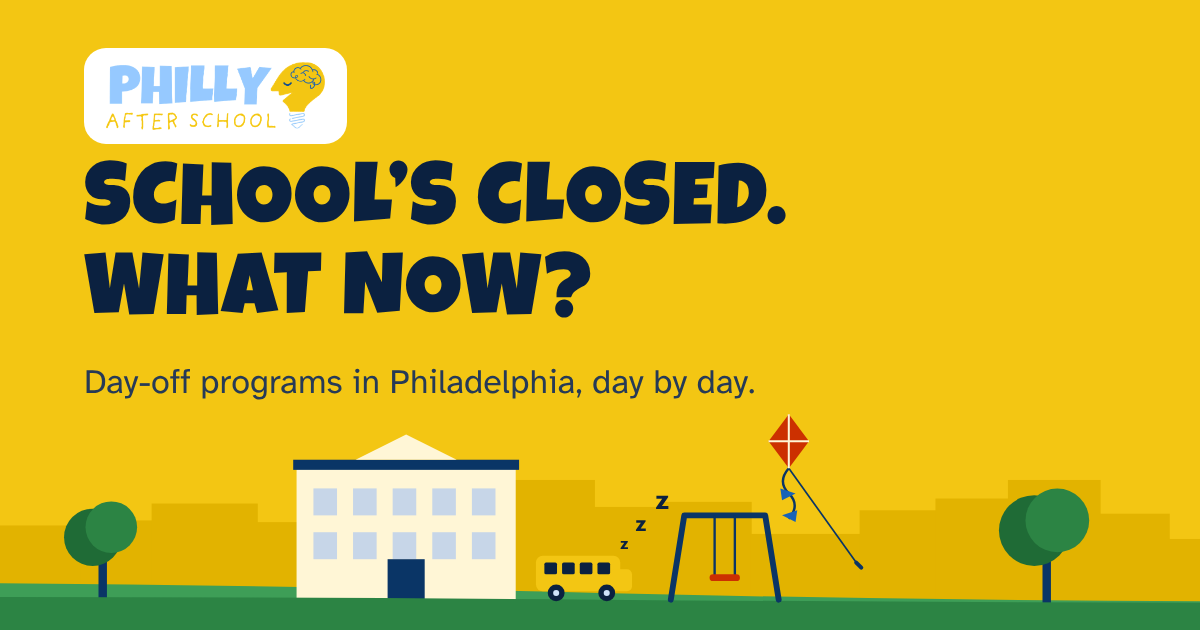
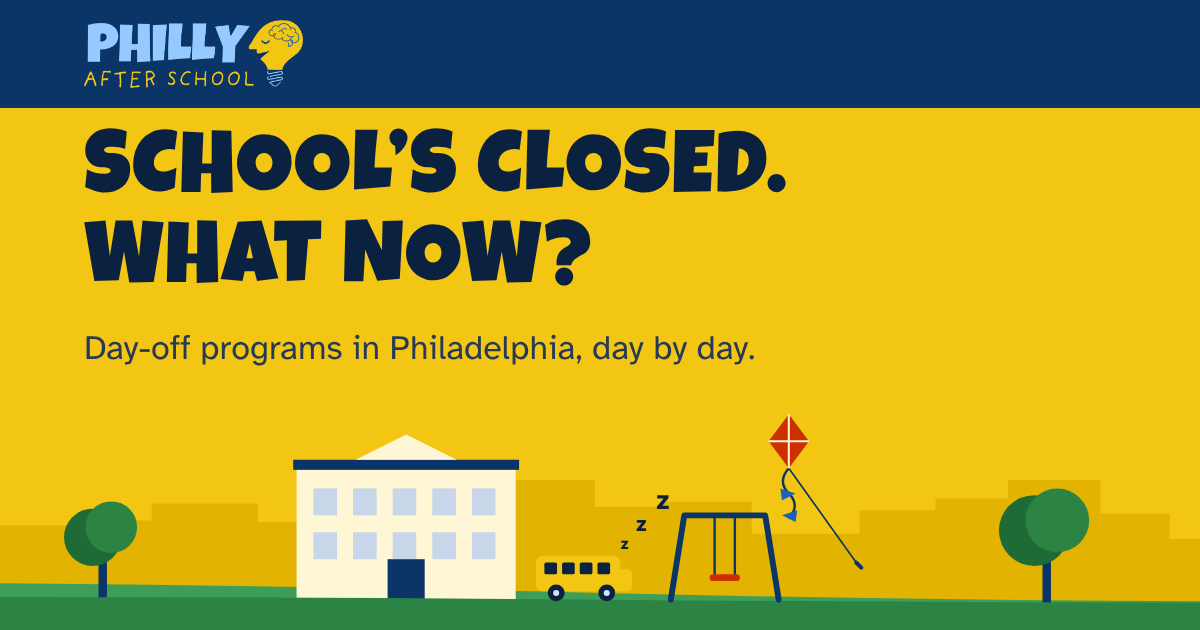
Launch polish: the type key, the calendar page as a sample, menu names, credits, share bands
Type: titles (h3, cards, tiles, steps) in Figtree ExtraBold, sentence
case, with Luckiest Guy kept for the h1/h2 signposts; Archivo is gone,
the week card and the drawings draw in Figtree too.

The signed-out calendar page: "Sample calendar" with no kicker, the
example full width with no side copy and no "Example" pill, a sample
line under it, "Line up your sign-ups", a truthful last card, and a
hero with "Get started" and "Log in".

Menus and footer lists in title case ("After School" as the noun,
"Days Off", "My Calendar"); the two credit lines reworded. The share
pictures open with the site's header bar. The footer wordmark is cut
by connected parts, so the Y is whole. The next-day-off line and bar
skip a day already planned on the device and go quiet past 60 days.

Claude-Session: https://claude.ai/code/session_014J9upzwzYj5u4U8HYNcMSU

Changed region(s): [[0.0, 0.0, 1.0, 0.6333]]

diff --git a/src/site.js b/src/site.js
@@ -1094,11 +1094,14 @@
     if (firstOff && firstOff.tagName === 'DETAILS' && !/^#d-/.test(location.hash)) firstOff.open = true;
     var asked = /^#d-/.test(location.hash) ? document.getElementById(location.hash.slice(1)) : null;
     if (asked && asked.tagName === 'DETAILS') asked.open = true;
+    // a day off already planned here is not news: the line and the bar move on to the next one still unplanned,
+    // and say nothing when that one is more than 60 days away
+    var soon = (function () { var t = new Date(now); t.setDate(t.getDate() + 60); return t.getFullYear() + '-' + ('0' + (t.getMonth() + 1)).slice(-2) + '-' + ('0' + t.getDate()).slice(-2); })();
     all(document, '[data-next-off]').forEach(function (b) {
       var list; try { list = JSON.parse(b.getAttribute('data-next-off')); } catch (e) { return; }
       var next = null;
-      list.forEach(function (d) { if (!next && d.u >= today) next = d; });
-      if (!next) return;
+      list.forEach(function (d) { if (!next && d.u >= today && !offPlanned(d.d)) next = d; });
+      if (!next || (next.s || next.u) > soon) return;
       b.textContent = 'Next day off: ' + next.w + ' (' + next.n + ').' + (next.c ? ' ' + next.c + (next.c === 1 ? ' listed program has' : ' listed programs have') + ' a camp posted.' : '');
       b.hidden = false;
       var day = b.parentNode.querySelector('[data-next-off-day]');   // that day's own page: who has a camp
@@ -1108,8 +1111,8 @@
     var bar = document.getElementById('offbar');
     if (bar) {
       var days; try { days = JSON.parse(bar.getAttribute('data-offbar')); } catch (e) { days = []; }
-      var nx = null; days.forEach(function (d) { if (!nx && d.u >= today) nx = d; });
-      if (nx && store('pas-offbar') !== nx.s) {
+      var nx = null; days.forEach(function (d) { if (!nx && d.u >= today && !offPlanned(d.d)) nx = d; });
+      if (nx && nx.s <= soon && store('pas-offbar') !== nx.s) {
         var go = bar.querySelector('.offbar-go'), room = function () { document.body.style.paddingBottom = bar.hidden ? '' : bar.offsetHeight + 'px'; };
         bar.querySelector('.offbar-q').textContent = nx.q;
         go.textContent = nx.g; go.href = nx.p;
@@ -1587,6 +1590,12 @@
     delete rosters.sumProfOff; delete rosters.offProfOff;
     store('pas-rosters', JSON.stringify(rosters)); if (window.pasBoard && window.pasBoard.onSave) window.pasBoard.onSave(); if (window.pasSummer && window.pasSummer.onSave) window.pasSummer.onSave(); if (window.pasDaysOff && window.pasDaysOff.onSave) window.pasDaysOff.onSave(); }
   function activeKid() { var r = loadRosters(); return r.kids[r.kid]; }
+  // true when every child on this device has a pick, in the days-off planner, for every date of a break
+  function offPlanned(dates) {
+    if (!dates || !dates.length) return false;
+    var raw = rosters || parse('pas-rosters'), kids = raw && Array.isArray(raw.kids) ? raw.kids : [];   // read, never load: this runs before the planners are set up
+    return kids.length > 0 && kids.every(function (k) { var off = k && k.off && typeof k.off === 'object' ? k.off : {}; return dates.every(function (x) { return !!off[x]; }); });
+  }
   function activeBoard() { var r = loadRosters(); return r.kids[r.kid][r.active]; }
   function kidLabel(k, i) { return k.name || 'Child ' + (i + 1); }
   function countPicks(b) {
@@ -2255,7 +2264,7 @@
     var photoBox = $o('#off-photo'), photoClear = $o('#off-photo-clear'), cardStatus = $o('#off-card-status');
     var photo = null, page = 'all';
     var MONTHS = ['January', 'February', 'March', 'April', 'May', 'June', 'July', 'August', 'September', 'October', 'November', 'December'];
-    var DISPLAY = '"Archivo", "Arial Black", Arial, sans-serif', BODY = '"Atkinson Hyperlegible", "Segoe UI", system-ui, sans-serif';
+    var DISPLAY = '"Figtree", "Arial Black", Arial, sans-serif', BODY = '"Atkinson Hyperlegible", "Segoe UI", system-ui, sans-serif';
     var NAVY = '#0B2140', YELLOW = '#F3C613';
     var INKS = [['#DAEDFE', '#1763B8'], ['#FFEFA2', '#B88A00'], ['#D6F3D2', '#2C8444'], ['#F0DDF7', '#6B3FA0'], ['#FFD9CC', '#CC3000'], ['#E4ECF6', '#4D607A']];
     var utc = function (iso, n) { var d = new Date(iso + 'T12:00:00Z'); d.setUTCDate(d.getUTCDate() + (n || 0)); return d; };
@@ -2452,7 +2461,7 @@
         shareEvent('print');
         window.print();
       });
-      if (document.fonts && document.fonts.load) Promise.all([document.fonts.load('850 88px Archivo'), document.fonts.load('400 30px "Atkinson Hyperlegible"')]).then(function () { if (!cardBox.hidden) drawCard(); }, function () { /* system fonts will do */ });
+      if (document.fonts && document.fonts.load) Promise.all([document.fonts.load('800 88px Figtree'), document.fonts.load('400 30px "Atkinson Hyperlegible"')]).then(function () { if (!cardBox.hidden) drawCard(); }, function () { /* system fonts will do */ });
     } else if (cardBox) cardBox.hidden = true;
 
     // What the accounts script (groups.js) needs to keep the days off in a profile. It adds onSave.
@@ -2672,7 +2681,7 @@
       if (!b.getAttribute('data-plain')) b.setAttribute('data-plain', b.textContent);
       var plain = b.getAttribute('data-plain'); if (!plain) return;
       var today = new Date(), iso0 = today.getFullYear() + '-' + ('0' + (today.getMonth() + 1)).slice(-2) + '-' + ('0' + today.getDate()).slice(-2);
-      var next = null; data.offAhead.forEach(function (d) { if (!next && d.u >= iso0) next = d; });
+      var next = null; data.offAhead.forEach(function (d) { if (!next && d.u >= iso0 && !offPlanned(d.dates)) next = d; });
       var kid = activeKid(), board = countPicks(kid.now) ? kid.now : countPicks(kid.next) ? kid.next : null;
       if (!next || !board) { b.textContent = plain; return; }
       var WD = ['sun', 'mon', 'tue', 'wed', 'thu', 'fri', 'sat'], found = {}, order = [];
@@ -3400,7 +3409,7 @@
     var maker = $('#card-maker'), canvas = $('#card-canvas');
     var teacherBox = $('#card-teacher'), noteBox = $('#card-note'), photoBox = $('#card-photo'), photoClear = $('#card-photo-clear'), cardStatus = $('#card-status');
     var photo = null;
-    var DISPLAY = '"Archivo", "Arial Black", Arial, sans-serif', BODY = '"Atkinson Hyperlegible", "Segoe UI", system-ui, sans-serif';
+    var DISPLAY = '"Figtree", "Arial Black", Arial, sans-serif', BODY = '"Atkinson Hyperlegible", "Segoe UI", system-ui, sans-serif';
     var fit = function (ctx, text, max) {   // shorten with an ellipsis until it fits
       if (ctx.measureText(text).width <= max) return text;
       while (text.length > 1 && ctx.measureText(text + '…').width > max) text = text.slice(0, -1);
@@ -3570,7 +3579,7 @@
         track_share('cta_click');
       });
       if (document.fonts && document.fonts.load) {   // draw again once the site's fonts are ready
-        Promise.all([document.fonts.load('850 92px Archivo'), document.fonts.load('400 30px "Atkinson Hyperlegible"')]).then(drawCard, function () { /* fall back to system fonts */ });
+        Promise.all([document.fonts.load('800 92px Figtree'), document.fonts.load('400 30px "Atkinson Hyperlegible"')]).then(drawCard, function () { /* fall back to system fonts */ });
       }
     }
 
@@ -3935,7 +3944,7 @@
     var photoBox = $s('#sum-photo'), photoClear = $s('#sum-photo-clear'), cardStatus = $s('#sum-card-status');
     var photo = null, page = 'all';
     var MONTHS = ['January', 'February', 'March', 'April', 'May', 'June', 'July', 'August', 'September', 'October', 'November', 'December'];
-    var DISPLAY = '"Archivo", "Arial Black", Arial, sans-serif', BODY = '"Atkinson Hyperlegible", "Segoe UI", system-ui, sans-serif';
+    var DISPLAY = '"Figtree", "Arial Black", Arial, sans-serif', BODY = '"Atkinson Hyperlegible", "Segoe UI", system-ui, sans-serif';
     var NAVY = '#0B2140', YELLOW = '#F3C613';
     var INKS = [['#DAEDFE', '#1763B8'], ['#FFEFA2', '#B88A00'], ['#D6F3D2', '#2C8444'], ['#F0DDF7', '#6B3FA0'], ['#FFD9CC', '#CC3000'], ['#E4ECF6', '#4D607A']];
     var dayOf = function (iso, n) { var d = new Date(iso + 'T12:00:00Z'); d.setUTCDate(d.getUTCDate() + (n || 0)); return d; };
@@ -4123,7 +4132,7 @@
         window.addEventListener('afterprint', after);
         ev('card_print'); window.print();
       });
-      if (document.fonts && document.fonts.load) Promise.all([document.fonts.load('850 88px Archivo'), document.fonts.load('400 30px "Atkinson Hyperlegible"')]).then(function () { if (!cardBox.hidden) drawCard(); }, function () { /* system fonts will do */ });
+      if (document.fonts && document.fonts.load) Promise.all([document.fonts.load('800 88px Figtree'), document.fonts.load('400 30px "Atkinson Hyperlegible"')]).then(function () { if (!cardBox.hidden) drawCard(); }, function () { /* system fonts will do */ });
     } else if (cardBox) cardBox.hidden = true;
 
     // What the accounts script (groups.js) needs to keep the summer in a profile. It adds onSave.
@@ -4157,7 +4166,7 @@
     var $y = function (id) { return document.getElementById(id); };
     var now0 = new Date(), today0 = now0.getFullYear() + '-' + ('0' + (now0.getMonth() + 1)).slice(-2) + '-' + ('0' + now0.getDate()).slice(-2);
     var MONTHS = ['January', 'February', 'March', 'April', 'May', 'June', 'July', 'August', 'September', 'October', 'November', 'December'];
-    var DISPLAY = '"Archivo", "Arial Black", Arial, sans-serif', BODY = '"Atkinson Hyperlegible", "Segoe UI", system-ui, sans-serif';
+    var DISPLAY = '"Figtree", "Arial Black", Arial, sans-serif', BODY = '"Atkinson Hyperlegible", "Segoe UI", system-ui, sans-serif';
     var NAVY = '#0B2140', YELLOW = '#F3C613';
     var INKS = [['#DAEDFE', '#1763B8'], ['#FFEFA2', '#B88A00'], ['#D6F3D2', '#2C8444'], ['#F0DDF7', '#6B3FA0'], ['#FFD9CC', '#CC3000'], ['#E4ECF6', '#4D607A']];
     var utc = function (iso, n) { var d = new Date(iso + 'T12:00:00Z'); d.setUTCDate(d.getUTCDate() + (n || 0)); return d; };
@@ -4875,7 +4884,7 @@
         window.addEventListener('afterprint', after);
         window.print();
       });
-      if (document.fonts && document.fonts.load) Promise.all([document.fonts.load('850 88px Archivo'), document.fonts.load('400 30px "Atkinson Hyperlegible"')]).then(function () { if (model && !cardBox.hidden) drawCard(); }, function () { /* system fonts will do */ });
+      if (document.fonts && document.fonts.load) Promise.all([document.fonts.load('800 88px Figtree'), document.fonts.load('400 30px "Atkinson Hyperlegible"')]).then(function () { if (model && !cardBox.hidden) drawCard(); }, function () { /* system fonts will do */ });
     } else if (cardBox) cardBox.hidden = true;
 
     // groups.js calls this once it knows who is signed in. `profile` is null when the profile couldn't be read.

diff --git a/src/site.css b/src/site.css
@@ -15,10 +15,10 @@
   --foot:#0A3566; --foot-ink:#FFFFFF; --foot-muted:#CFE3FB;
   --house-1:#1B60AD; --house-2:#2176D2; --house-3:#2E86E0; --house-trim:#0A3566; --school:#FFFFFF; --school-win:#2176D2;
   --street:#0A3566; --scene-line:#0A3566; --scene-drop:#1763B8; --cloud-1:.95; --cloud-2:.8; --sun:1; --note:#0A3566;
-  --display:"Archivo","Arial Black","Helvetica Neue",Arial,sans-serif;
+  --display:"Figtree","Arial Black","Helvetica Neue",Arial,sans-serif;
   --body:"Atkinson Hyperlegible","Segoe UI",system-ui,sans-serif;
   /* the brand's type: page titles and section headings (h1, h2) in Luckiest Guy, the logo's face, heavy painted caps;
-     the small line over a title in Schoolbell, a thin print hand. Smaller headings, cards and buttons stay in Archivo. */
+     the small line over a title in Schoolbell, a thin print hand. Names of things inside a region (h3, cards, tiles, step labels) are Figtree ExtraBold in sentence case. */
   --title:"Luckiest Guy","Arial Black",Impact,sans-serif;
   --hand:"Schoolbell","Comic Sans MS","Segoe Print",cursive;
 }
@@ -1600,6 +1600,7 @@ html:not(.js) .pshow-nextp{display:none}
 .view-switch .vs:focus-visible{outline:3px solid var(--yellow);outline-offset:1px}
 .pshow-panel{display:grid;grid-template-columns:minmax(0,1fr) minmax(0,2.2fr);gap:20px 30px;align-items:center;padding:24px 26px 28px;min-width:0}
 .pshow-panel[hidden]{display:none}
+.pshow-panel.plain{grid-template-columns:minmax(0,1fr)}
 html:not(.js) .pshow-panel + .pshow-panel{border-top:1px solid var(--line)}
 .pshow-say{display:flex;flex-direction:column;gap:8px;min-width:0}
 .pshow-say > b{font-family:var(--display);font-stretch:112%;font-size:1.3rem;line-height:1.15}

diff --git a/src/groups.js b/src/groups.js
@@ -1795,7 +1795,7 @@
     var flyer = function (name, url, rows) {
       var W = 1275, H = 1650, cv = document.createElement('canvas'), x = cv.getContext('2d');
       cv.width = W; cv.height = H;
-      var DISPLAY = '"Archivo","Arial Black","Helvetica Neue",Arial,sans-serif', BODY = '"Atkinson Hyperlegible","Segoe UI",system-ui,sans-serif', NAVY = '#0B2140', YELLOW = '#F3C613';
+      var DISPLAY = '"Figtree","Arial Black","Helvetica Neue",Arial,sans-serif', BODY = '"Atkinson Hyperlegible","Segoe UI",system-ui,sans-serif', NAVY = '#0B2140', YELLOW = '#F3C613';
       var fit = function (text, font, size, max, min) { do { x.font = font.replace('SIZE', size); size -= 4; } while (x.measureText(text).width > max && size > min); return x.font; };
       var wrap = function (text, max) { var words = text.split(' '), lines = [], line = ''; words.forEach(function (w) { var t = line ? line + ' ' + w : w; if (x.measureText(t).width > max && line) { lines.push(line); line = w; } else line = t; }); if (line) lines.push(line); return lines; };
       x.fillStyle = '#FFFFFF'; x.fillRect(0, 0, W, H);

diff --git a/README.md b/README.md
@@ -28,7 +28,8 @@ Fill in `site.config.json`:
 - `supportUrl` and `supportMonthlyUrl`: the two Stripe Payment Links on the Support page (pay what you want once; a monthly amount), with `supportLabel` and `supportMonthlyLabel` as the button text. Only the public `buy.stripe.com` addresses go here, never a key. If `supportUrl` is empty, the Support page says contributions are being set up. Coming back from Stripe: each link's "after payment" redirect is `https://phillyafterschool.org/support/?thanks=1&session_id={CHECKOUT_SESSION_ID}` (the one-time link) or `?thanks=2&…` (the monthly link); the page shows the matching thank-you (`#support-thanks`), counts the checkout once (`pas_support_thanks` with `plan` once or month, the same `pas-paid-seen` list the premium page uses) and takes the query off the address.
 - `siteUrl`: the domain you treat as the main one. Redirect the other domain to it at your host.
 - `builtBy`: the name, link and short bio shown in the footer, on the home page and on About.
-- `writtenBy`: optional. A name for a "Written by" line under "Built by" in the footer. It carries no link.
+- `writtenBy`: optional. A name for the "Written, edited, and humanized by" line under the "Created, managed, and
+  meticulously vibe coded by" line in the footer. It carries no link.
 - `gtmId`: optional, e.g. `GTM-XXXXXXX`.
 - `admins`: optional, a list of email addresses whose accounts open `/edit/` and its pages (see "Site admins").
 - `editLogin`: optional, `{ "user": "...", "passwordHash": "..." }`. Puts a sign-in on `/edit/`. The hash is a bcrypt hash, never the
@@ -853,9 +854,12 @@ open), then Suggestion Box, About and the button, so a phone sees five lines rat
 The footer (`.foot`) is the sitemap, kept short: the wordmark (`src/static/logo-text.png`, the logo without the
 bulb; the pictures the planners make carry the same wordmark on a navy tab at their top left, `drawMark()` in
 `site.js`), one line and the "Help the site keep going" button, then
-three columns: Programs (the four kinds, then by school, by neighborhood, by type, by day of week), Schedule Builder
-(the three planners, the calendar, reminders by email, My profile) and About (the story, Suggestion Box, Write a
-review, For program managers, Contact, Privacy, Terms), then the fine print with "Built by" and "Written by".
+three columns: Programs (the four kinds, then By School, By Neighborhood, By Type, By Day of Week), Schedule Builder
+(the three planners, My Calendar, Reminders by Email, My Profile) and About (The Story, Suggestion Box, Write a
+Review, For Program Managers, Contact, Privacy, Terms of Use), then the fine print with the two credit lines
+("Created, managed, and meticulously vibe coded by …" and "Written, edited, and humanized by …"). Menu and footer
+items are in title case, and "After School" is two words when it names the thing (it is hyphenated only as an
+adjective: after-school programs).
 
 ## Signed up, or still to: ticks on the days-off plan and the to-do list
 
@@ -942,7 +946,10 @@ The words are made in the build for the next twelve days off: "on" a holiday, "o
 school's closed for" conferences or staff development, with the date or the span of dates. The script shows the
 first one still ahead and leaves room for the bar under the page. The X closes it and remembers which day off was
 closed (`pas-offbar` in this browser), so it comes back for the next one. School pages and the week builder keep
-the older line in the page (`nextOff()`).
+the older line in the page (`nextOff()`). Both skip a day off that is already planned on this device — every child
+on the device has a pick for every date of the break in the days-off planner (`offPlanned()` in `site.js`) — and
+move on to the next one still unplanned; when that one is more than 60 days away they say nothing, since a day off
+two months out is not yet a question.
 
 ## Days of the week, days off, and a saved school
 
@@ -1056,15 +1063,18 @@ counts (the days-off card keeps "N days off still to come", and the summer card 
 stay off the home page's tiles and type chips too; a filter bar's counts and a list section's "(N)" are the live
 numbers of what is on the page, and stay.
 
-**Type.** Four faces, all from Google Fonts (one `<link>` in `layout()`): page titles and section headings (`h1`,
-`h2`) are **Luckiest Guy**, the logo's face, heavy painted capitals (`--title`; the text is set in capitals by CSS, so
-a heading keeps its own casing in the HTML and in search results; its own lowercase is an odd unicase, so the
-transform is not optional), the small line over a title (`.hero .where`, the breadcrumb or the school's one-line
-description) is **Schoolbell**, a thin print hand (`--hand`), smaller headings (`h3`), cards and buttons stay in
-**Archivo** (`--display`), and body text in **Atkinson Hyperlegible** (`--body`). The brand picked Luckiest Guy
-for the logo too, so the site and the logo share a face; Schoolbell stands in for the logo's hand-lettered "AFTER
-SCHOOL". The week card and the planners' pictures (`drawCard` in `src/site.js`) still draw in Archivo. The two
-link-preview pictures are drawn with the page title's face and the logo, so they are redrawn whenever either changes.
+**Type.** Four faces, all from Google Fonts (one `<link>` in `layout()`), following the brand's type key. Signposts —
+headings that name the page or a region of it (`h1`, `h2`: the page headline, "Parents", "When do you need
+coverage?") — are **Luckiest Guy**, the logo's face, heavy painted capitals (`--title`; the text is set in capitals by
+CSS, so a heading keeps its own casing in the HTML and in search results; its own lowercase is an odd unicase, so
+the transform is not optional). Titles — names of things inside a region and short statements (`h3`, the coverage
+cards, tiles, feature cards, step labels, "It's free for parents.") — are **Figtree ExtraBold** in sentence case
+(`--display`, weight 800; the week card and the planners' pictures draw in it too). The small line over a page
+title (`.hero .where`, the breadcrumb or the school's one-line description) is **Schoolbell**, a thin print hand
+(`--hand`), and body text is **Atkinson Hyperlegible** (`--body`). The brand picked Luckiest Guy for the logo too,
+so the site and the logo share a face; Schoolbell stands in for the logo's hand-lettered "AFTER SCHOOL". The two
+link-preview pictures open with the site's own header bar (the deep blue with the logo) and are drawn with the
+page title's face, so they are redrawn whenever either changes.
 
 **Colours.** Every colour is a named value at the top of `src/site.css`. The band at the top of each page is a
 daytime sky (`--hero` fading to `--hero-low`) with navy type (`--hero-ink`, `--hero-muted`); the header button
@@ -1794,7 +1804,10 @@ planner would be (see "The tour" below), and the lists are there for everyone on
   a product page. Under the page's heading is the one thing to press, "Create a free account" (`heroCta()`), which
   comes back to that planner. Then: a heading and a strip of tabs, one for each way of looking at the plan (List,
   Calendar, Grid on the days-off and summer pages; The week, Budget planning, Share it on the week; Calendar,
-  List on My kids' calendar), each showing a made-up example; three things the planner does, each a picture-and-text row (a small
+  List on My kids' calendar), each showing a made-up example (My kids' calendar is the plain one, `plain: true`: a
+  "Sample calendar" heading with no kicker, the example full width with no side copy and no "Example" pill, and
+  "This is a sample. Yours will be populated with your kids, your schedule, and the plans you make." under it; its
+  hero has two buttons, "Get started" and "Log in", and a signed-out lede of its own); three things the planner does, each a picture-and-text row (a small
   drawing, `miniArt()`, on alternating sides, a headline and one line, in the kinds' colors); the three steps as one
   line (1 Create a free account → 2 Make your plan → 3 Take it with you); and a dark band with the button again.
   Three rows and one line each, rather than six cards with sentences, so the page can be taken in at a glance. The strip is labelled "See it as" and each example ends with a "Next: …"
